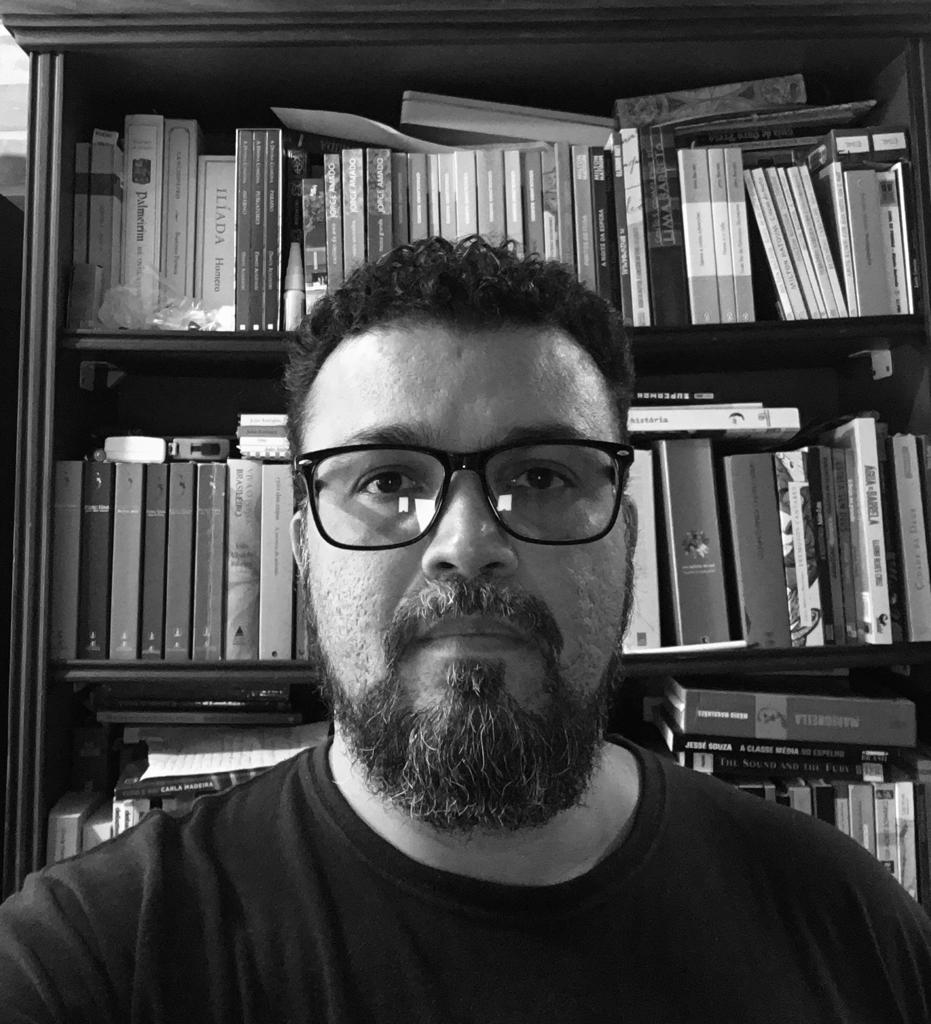
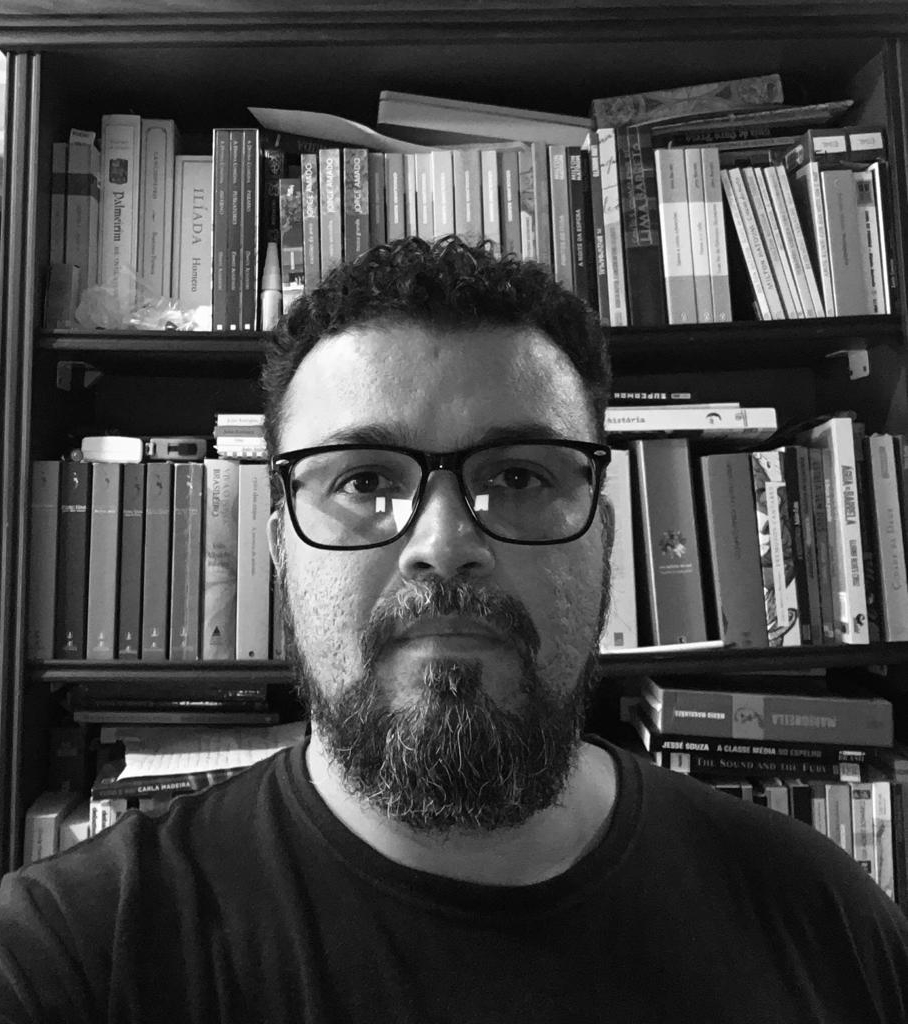
Inseridos foto e bio do Danilo

diff --git a/index.html b/index.html
@@ -1043,6 +1043,29 @@
           <div class="col-lg-3 col-md-6 d-flex align-items-stretch">
             <div class="member" data-aos="fade-up">
               <div class="member-img">
+                <img src="assets/img/team/equipe_danilo.jpg" class="img-fluid" alt="">
+                <!--
+                <div class="social">
+                  <a href=""><i class="bi bi-twitter"></i></a>
+                  <a href=""><i class="bi bi-facebook"></i></a>
+                  <a href=""><i class="bi bi-instagram"></i></a>
+                  <a href=""><i class="bi bi-linkedin"></i></a>
+                </div>
+                -->
+              </div>
+              <div class="member-info">
+                <h4>Danilo Silvério</h4>
+                <span>Graduado em Letras pela Universidade de São Paulo (USP), com habilitação em Português e Inglês
+                  (2002). É mestre em Literatura Portuguesa (2016) pela USP e doutor em Estudos Comparados de
+                  Literaturas de Língua Portuguesa (2019), também pela USP. É professor de língua e literatura e desde
+                  2011 trabalha como Técnico em Assuntos Educacionais na Universidade Federal do ABC (UFABC).</span>
+              </div>
+            </div>
+          </div>
+
+          <div class="col-lg-3 col-md-6 d-flex align-items-stretch">
+            <div class="member" data-aos="fade-up">
+              <div class="member-img">
                 <img src="assets/img/team/equipe_gabi.JPG" class="img-fluid" alt="">
                 <!--
                 <div class="social">
